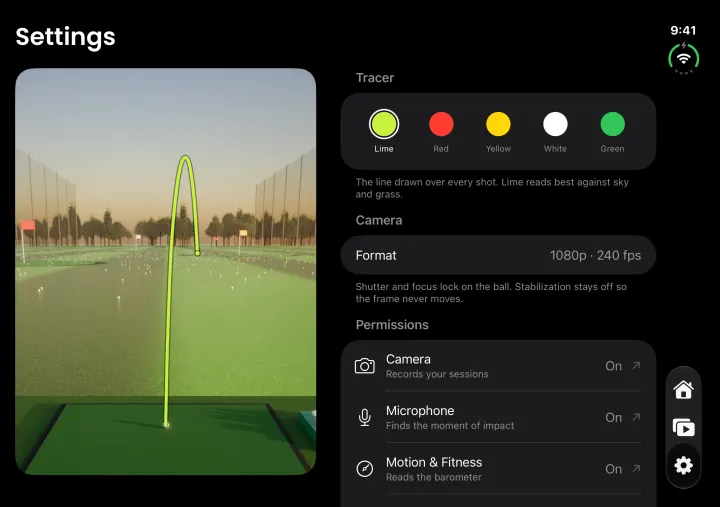
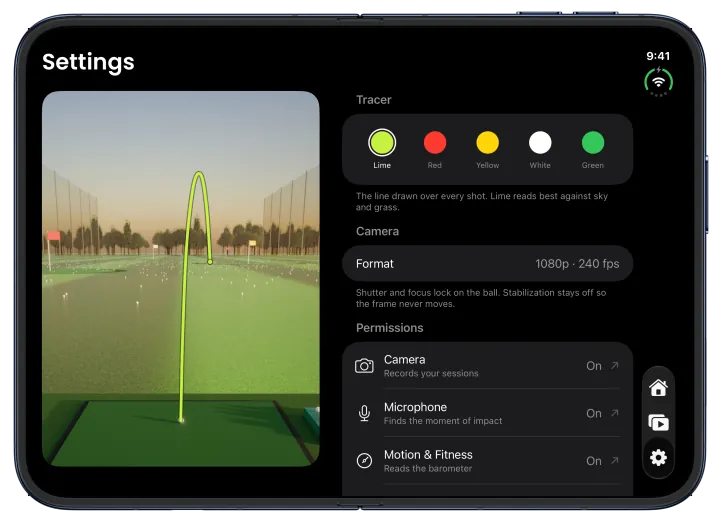
Duo section: scroll-turned 3D iPhone Duo in Apple's bezels, placed after How it works
- Moves the Duo section to right after "How it works"; no other section changes
  (git diff vs main is additions only in public/).
- Lead visual: a 3D iPhone Duo (Apple's Night Sky Inner Open Landscape / Outer
  Open bezels, unaltered, plus a stack of edge layers for thickness) that scroll
  turns from the inside screen (recording) to the outside screen, which loops the
  last swing full screen with its tracer. CSS-sticky stage, one scrubbed
  ScrollTrigger (scrub: 1), transforms only, tilt/drift/scale-in, moving sheen and
  contact shadow. The replay video (44 KB, simulator recording of -coverPreview)
  plays whenever the stage is on screen; pause button. Reduced motion: both sides
  flat, side by side.
- Library and Settings points follow, smaller, also in the Duo bezel.
- Bezel licence note and AGENTS.md updated.

diff --git a/public/index.html b/public/index.html
@@ -278,28 +278,68 @@ footer a:hover { text-decoration: underline; text-underline-offset: 4px; }
 .shot figcaption b { display: block; font-weight: 600; font-size: 1.0625rem; }
 .shot figcaption span { display: block; margin-top: 2px; font-size: 15px; color: var(--white-2); }
 
-/* ---------- iPhone Duo: a compact, secondary section under the gallery. Tagged "Coming soon" until the Duo build ships (AGENTS.md). ---------- */
-.duo { padding-bottom: clamp(var(--space-3xl), 10vw, var(--space-4xl)); }
-.duo-inner { padding-top: var(--space-xl); border-top: 1px solid var(--hairline); }
+/* ---------- iPhone Duo: a compact section right after "How it works". Tagged "Coming soon" until the Duo build ships (AGENTS.md).
+   Apple's iPhone Duo bezels (Apple Design Resources, see assets/device/LICENSE-NOTE.txt), unaltered apart from resizing.
+   Lead visual: a 3D Duo (front/back bezels + a stack of thin edge layers for thickness) that scroll turns from the inside
+   screen (recording) to the outside screen (last swing replaying). Device geometry is the bezels' body box (2975 x 2129 px
+   in both PNGs); the faces' images overhang it by the PNGs' transparent margins. ---------- */
+.duo { padding-block: clamp(var(--space-2xl), 8vw, var(--space-3xl)) clamp(var(--space-3xl), 10vw, var(--space-4xl)); }
 .duo-head { display: grid; grid-template-columns: minmax(0, 4fr) minmax(0, 8fr); gap: var(--space-lg) var(--space-2xl); align-items: start; }
 .duo-head h2 { font-size: 1.75rem; font-weight: 600; line-height: 1.15; letter-spacing: -0.025em; }
 .duo-tag { display: inline-block; margin-top: var(--space-sm); padding: 3px 10px; border: 1px solid var(--hairline); border-radius: var(--r-capsule); font-size: 13px; font-weight: 500; line-height: 1.5; color: var(--white-2); }
 .duo-head p:not(.duo-tag) { max-width: 46ch; color: var(--white-2); }
-.duo-head p + p:not(.duo-tag) { margin-top: var(--space-sm); }
-.duo-points { display: grid; grid-template-columns: repeat(3, minmax(0, 1fr)); gap: var(--space-xl) var(--space-lg); margin-top: var(--space-xl); }
-.duo-points figure { margin: 0; }
-.duo-points img { display: block; width: 100%; height: auto; aspect-ratio: 720 / 507; border-radius: var(--r-media); border: 1px solid var(--hairline); background: var(--night-raised); }
-.duo-points h3 { margin-top: var(--space-md); font-size: 1.0625rem; font-weight: 600; letter-spacing: -0.01em; }
-.duo-points figcaption p { margin-top: 2px; max-width: 40ch; font-size: 15px; color: var(--white-2); }
+.duo figure { margin: 0; }
+.duo img, .duo video { display: block; }
+.duo h3 { font-size: 1.0625rem; font-weight: 600; letter-spacing: -0.01em; }
+.duo figcaption p { margin-top: 2px; max-width: 46ch; font-size: 15px; color: var(--white-2); }
+.duo-stage { display: grid; grid-template-columns: minmax(0, 4fr) minmax(0, 8fr); gap: var(--space-lg) var(--space-2xl); align-items: center; margin-top: var(--space-2xl); }
+.duo-stage figcaption { grid-row: 1; grid-column: 1; }
+.duo-stage .round-btn { margin-top: var(--space-lg); }
+.duo-stage .round-btn[hidden] { display: none; }
+.duo-stage .round-btn [data-icon="play"], .duo-stage .round-btn[aria-pressed="true"] [data-icon="pause"] { display: none; }
+.duo-stage .round-btn[aria-pressed="true"] [data-icon="play"] { display: block; }
+.duo-view { grid-row: 1; grid-column: 2; container-type: inline-size; position: relative; }
+.duo-tilt, .duo-device { transform-style: preserve-3d; }
+.duo-device { position: relative; display: grid; grid-template-columns: repeat(2, minmax(0, 1fr)); gap: var(--space-md); }
+.duo-face { position: relative; aspect-ratio: 2975 / 2129; }
+.duo-art { position: absolute; }
+.duo-face-front .duo-art { left: -1.983%; top: -2.771%; width: 103.966%; height: 105.542%; }
+.duo-face-back .duo-art { left: -1.345%; top: -1.502%; width: 102.723%; height: 103.005%; }
+.duo-art img { width: 100%; height: 100%; }
+.duo-art video { position: absolute; left: 51.374%; top: 3.646%; width: 45.746%; height: 92.707%; object-fit: cover; background: #000; }
+.duo-art video + img { position: absolute; inset: 0; }
+.duo-edge, .duo-sheen, .duo-shadow { display: none; }
+/* Scroll-driven 3D (added by JS when motion is allowed): a sticky stage inside a tall runway. */
+.duo.is-scrub .duo-runway { height: 260vh; }
+.duo.is-scrub .duo-stage { position: sticky; top: 0; height: 100vh; margin-top: 0; }
+.duo.is-scrub .duo-view { perspective: 1400px; }
+.duo.is-scrub .duo-tilt { will-change: transform; }
+.duo.is-scrub .duo-device { display: block; aspect-ratio: 2975 / 2129; will-change: transform; }
+.duo.is-scrub .duo-face { position: absolute; inset: 0; backface-visibility: hidden; -webkit-backface-visibility: hidden; }
+.duo.is-scrub .duo-face-front { transform: translateZ(1.7cqw); }
+.duo.is-scrub .duo-face-back { transform: rotateY(180deg) translateZ(1.7cqw); }
+.duo.is-scrub .duo-edge { display: block; position: absolute; inset: 0.15%; border-radius: 8.4% / 11.7%; background: var(--edge, #3b475c); transform: translateZ(calc(var(--z) * 1cqw)); }
+.duo.is-scrub .duo-sheen { display: block; position: absolute; inset: 0; pointer-events: none; mix-blend-mode: screen;
+  background: linear-gradient(105deg, transparent 38%, oklch(100% 0 0 / 0.16) 50%, transparent 62%) no-repeat;
+  background-size: 260% 100%; background-position: calc(115% - var(--p, 0) * 130%) 0;
+  -webkit-mask: var(--mask) center / 100% 100% no-repeat; mask: var(--mask) center / 100% 100% no-repeat; }
+.duo.is-scrub .duo-shadow { display: block; position: absolute; left: 12%; right: 12%; bottom: -9%; height: 10%; border-radius: 50%;
+  background: radial-gradient(closest-side, oklch(0% 0 0 / 0.55), transparent); filter: blur(6px); will-change: transform, opacity; }
+.duo-points { display: grid; grid-template-columns: repeat(2, minmax(0, 1fr)); gap: var(--space-lg) var(--space-2xl); margin-top: var(--space-2xl); }
+.duo-points figure { display: grid; grid-template-columns: minmax(0, 1fr) minmax(0, 1fr); gap: var(--space-md); align-items: center; }
+.duo-points img { width: 100%; height: auto; }
 @media (max-width: 900px) {
-  .duo-head { grid-template-columns: minmax(0, 1fr); }
-  .duo-points { grid-template-columns: minmax(0, 1fr); }
-  .duo-points figure { display: grid; grid-template-columns: minmax(0, 1fr) minmax(0, 1fr); gap: var(--space-lg); align-items: center; }
-  .duo-points h3 { margin-top: 0; }
+  .duo-head, .duo-stage, .duo-points { grid-template-columns: minmax(0, 1fr); }
+  .duo-view, .duo-stage figcaption { grid-column: 1; }
+  .duo-stage figcaption { grid-row: 2; }
+  .duo.is-scrub .duo-stage { align-content: center; gap: var(--space-xl); height: 100svh; }
+  .duo.is-scrub .duo-runway { height: 240svh; }
 }
 @media (max-width: 560px) {
+  .duo-device { grid-template-columns: minmax(0, 1fr); }
+  .duo.is-scrub .duo-tilt { margin-inline: 7%; }
   .duo-points figure { display: block; }
-  .duo-points h3 { margin-top: var(--space-md); }
+  .duo-points figcaption { margin-top: var(--space-sm); }
 }
 
 /* ---------- FAQ ---------- */
@@ -588,6 +628,51 @@ html.lenis, html.lenis body { height: auto; }
   </section>
 
 
+  <!-- IPHONE DUO: compact, after "How it works". Rule 1: the Duo-optimized layout (unfolded, every screen in two halves) and the
+       outside-screen replay are NOT in the App Store build yet, so the section carries a "Coming soon" tag. Remove the tag only once
+       the Duo build ships. Footage is the app itself: the inside screen is a simulator capture of Record unfolded (the debug
+       recording state holds its clock at 0:45), the outside-screen loop is a simulator recording of the replay view
+       (-coverPreview). Bezels: Apple's, unaltered, resize only. Scroll turns the phone (JS adds .is-scrub); without motion both
+       sides show side by side. -->
+  <section class="duo" id="duo" aria-labelledby="duo-title" data-duo>
+    <div class="wrap">
+      <div class="duo-head">
+        <div>
+          <h2 id="duo-title">Optimized for iPhone Duo.</h2>
+          <p class="duo-tag">Coming soon</p>
+        </div>
+        <p>Unfold it and Contrail splits in two: your shot on one side, the rest of your session on the other. Folded, it’s the app you know.</p>
+      </div>
+      <div class="duo-runway" data-duo-runway>
+        <figure class="duo-stage">
+          <div class="duo-view" data-duo-view>
+            <div class="duo-tilt" data-duo-tilt>
+              <div class="duo-device" data-duo-device>
+                <span class="duo-edge" style="--z:-1.639;--edge:oklch(28% 0.03 262)"></span><span class="duo-edge" style="--z:-1.518;--edge:oklch(29% 0.03 262)"></span><span class="duo-edge" style="--z:-1.396;--edge:oklch(30% 0.03 262)"></span><span class="duo-edge" style="--z:-1.275;--edge:oklch(31% 0.03 262)"></span><span class="duo-edge" style="--z:-1.154;--edge:oklch(32% 0.03 262)"></span><span class="duo-edge" style="--z:-1.032;--edge:oklch(33% 0.03 262)"></span><span class="duo-edge" style="--z:-0.911;--edge:oklch(34% 0.03 262)"></span><span class="duo-edge" style="--z:-0.789;--edge:oklch(34% 0.03 262)"></span><span class="duo-edge" style="--z:-0.668;--edge:oklch(35% 0.03 262)"></span><span class="duo-edge" style="--z:-0.546;--edge:oklch(36% 0.03 262)"></span><span class="duo-edge" style="--z:-0.425;--edge:oklch(37% 0.03 262)"></span><span class="duo-edge" style="--z:-0.304;--edge:oklch(38% 0.03 262)"></span><span class="duo-edge" style="--z:-0.182;--edge:oklch(39% 0.03 262)"></span><span class="duo-edge" style="--z:-0.061;--edge:oklch(40% 0.03 262)"></span><span class="duo-edge" style="--z:0.061;--edge:oklch(40% 0.03 262)"></span><span class="duo-edge" style="--z:0.182;--edge:oklch(39% 0.03 262)"></span><span class="duo-edge" style="--z:0.304;--edge:oklch(38% 0.03 262)"></span><span class="duo-edge" style="--z:0.425;--edge:oklch(37% 0.03 262)"></span><span class="duo-edge" style="--z:0.546;--edge:oklch(36% 0.03 262)"></span><span class="duo-edge" style="--z:0.668;--edge:oklch(35% 0.03 262)"></span><span class="duo-edge" style="--z:0.789;--edge:oklch(34% 0.03 262)"></span><span class="duo-edge" style="--z:0.911;--edge:oklch(34% 0.03 262)"></span><span class="duo-edge" style="--z:1.032;--edge:oklch(33% 0.03 262)"></span><span class="duo-edge" style="--z:1.154;--edge:oklch(32% 0.03 262)"></span><span class="duo-edge" style="--z:1.275;--edge:oklch(31% 0.03 262)"></span><span class="duo-edge" style="--z:1.396;--edge:oklch(30% 0.03 262)"></span><span class="duo-edge" style="--z:1.518;--edge:oklch(29% 0.03 262)"></span><span class="duo-edge" style="--z:1.639;--edge:oklch(28% 0.03 262)"></span>
+                <div class="duo-face duo-face-front"><div class="duo-art"><img src="/assets/screens/duo/04-record-recording-720.webp" srcset="/assets/screens/duo/04-record-recording-720.webp 720w, /assets/screens/duo/04-record-recording-1080.webp 1080w" sizes="(max-width: 900px) calc(100vw - 32px), 760px" width="720" height="524" loading="lazy" decoding="async" alt="iPhone Duo unfolded, inside screen: Contrail recording, with the camera view on one half and the last shot replaying on the other."><span class="duo-sheen" style="--mask:url('/assets/screens/duo/04-record-recording-720.webp')"></span></div></div>
+                <div class="duo-face duo-face-back"><div class="duo-art">
+                  <video muted loop playsinline preload="none" width="540" height="786" poster="/assets/screens/duo/replay-outer-poster.webp" aria-label="The outside screen of iPhone Duo, facing the golfer, replaying the last swing full screen with its lime tracer." data-duo-video><source data-src="/assets/screens/duo/replay-outer.mp4" type="video/mp4"></video>
+                  <img src="/assets/device/iphone-duo-night-sky-outer-open-720.webp" srcset="/assets/device/iphone-duo-night-sky-outer-open-720.webp 720w, /assets/device/iphone-duo-night-sky-outer-open-1080.webp 1080w" sizes="(max-width: 900px) calc(100vw - 32px), 760px" width="720" height="517" loading="lazy" decoding="async" alt="">
+                  <span class="duo-sheen" style="--mask:url('/assets/device/iphone-duo-night-sky-outer-open-720.webp')"></span>
+                </div></div>
+              </div>
+            </div>
+            <div class="duo-shadow" aria-hidden="true" data-duo-shadow></div>
+          </div>
+          <figcaption>
+            <h3>See your last shot while you hit the next</h3>
+            <p>While you hit, the camera fills the inside screen and the outside screen faces you with your last swing, tracer and all.</p>
+            <button class="round-btn solid" type="button" aria-label="Pause video" aria-pressed="false" hidden data-duo-pause><svg data-icon="pause" viewBox="0 0 256 256" fill="currentColor" aria-hidden="true" focusable="false"><path d="M200,32H160a16,16,0,0,0-16,16V208a16,16,0,0,0,16,16h40a16,16,0,0,0,16-16V48A16,16,0,0,0,200,32ZM96,32H56A16,16,0,0,0,40,48V208a16,16,0,0,0,16,16H96a16,16,0,0,0,16-16V48A16,16,0,0,0,96,32Z"/></svg><svg data-icon="play" viewBox="0 0 256 256" fill="currentColor" aria-hidden="true" focusable="false"><path d="M240,128a15.74,15.74,0,0,1-7.6,13.51L88.32,229.65a16,16,0,0,1-16.2.3A15.86,15.86,0,0,1,64,216.13V39.87a15.86,15.86,0,0,1,8.12-13.82,16,16,0,0,1,16.2.3L232.4,114.49A15.74,15.74,0,0,1,240,128Z"/></svg></button>
+          </figcaption>
+        </figure>
+      </div>
+      <div class="duo-points">
+        <figure><img src="/assets/screens/duo/05-library-720.webp" srcset="/assets/screens/duo/05-library-720.webp 720w, /assets/screens/duo/05-library-1080.webp 1080w" sizes="(max-width: 560px) calc(100vw - 32px), (max-width: 900px) 45vw, 270px" width="720" height="524" loading="lazy" decoding="async" alt="iPhone Duo unfolded: the Contrail library, with a shot playing on one half and a grid of the day’s shots on the other."><figcaption><h3>Watch and pick at once</h3><p>Your shot plays big on one half, all your shots on the other. Tap one and it plays, even in full screen.</p></figcaption></figure>
+        <figure><img src="/assets/screens/duo/07-settings-720.webp" srcset="/assets/screens/duo/07-settings-720.webp 720w, /assets/screens/duo/07-settings-1080.webp 1080w" sizes="(max-width: 560px) calc(100vw - 32px), (max-width: 900px) 45vw, 270px" width="720" height="524" loading="lazy" decoding="async" alt="iPhone Duo unfolded: Contrail settings, with a tracer preview on one half and tracer colors, camera format and permissions on the other."><figcaption><h3>Everything in reach</h3><p>Home, Settings and every other screen split in two. Nothing stretched, nothing on the fold.</p></figcaption></figure>
+      </div>
+    </div>
+  </section>
+
   <!-- EXAMPLES: three real swings with the tracer drawn in -->
   <section class="section examples" id="examples" aria-labelledby="examples-title">
     <div class="wrap">
@@ -696,29 +781,6 @@ html.lenis, html.lenis body { height: auto; }
       <figure class="shot"><div class="phone frame"><div class="phone-screen"><img src="/assets/screens/06-comet-tutorial-720.webp" srcset="/assets/screens/06-comet-tutorial-720.webp 720w, /assets/screens/06-comet-tutorial-1080.webp 1080w" sizes="(max-width: 760px) 65vw, 305px" width="720" height="1566" loading="lazy" alt="Contrail first-run tutorial: Comet says tap record and hit a few balls, I find the ball on your first swing, short sessions work best, above a small record screen with the ball locked."></div><img class="phone-bezel" src="/assets/device/iphone-18-pro-black-1104.webp" srcset="/assets/device/iphone-18-pro-black-552.webp 270w, /assets/device/iphone-18-pro-black-1104.webp 540w" sizes="(max-width: 760px) 72vw, 340px" width="540" height="1104" alt="" loading="lazy" decoding="async"></div><figcaption><b>First run</b><span>Comet walks you through setup the first time you open the app.</span></figcaption></figure>
       <figure class="shot"><div class="phone frame"><div class="phone-screen"><img src="/assets/screens/07-settings-720.webp" srcset="/assets/screens/07-settings-720.webp 720w, /assets/screens/07-settings-1080.webp 1080w" sizes="(max-width: 760px) 65vw, 305px" width="720" height="1566" loading="lazy" alt="Contrail settings: a tracer preview with color choices lime, red, yellow, white and green, the camera format 1080p at 240 fps and the list of permissions."></div><img class="phone-bezel" src="/assets/device/iphone-18-pro-black-1104.webp" srcset="/assets/device/iphone-18-pro-black-552.webp 270w, /assets/device/iphone-18-pro-black-1104.webp 540w" sizes="(max-width: 760px) 72vw, 340px" width="540" height="1104" alt="" loading="lazy" decoding="async"></div><figcaption><b>Your line, your color</b><span>Lime by default, or red, yellow, white or green. Permissions live here too.</span></figcaption></figure>
     </div>
-  </section>
-
-  <!-- IPHONE DUO: compact and secondary to the iPhone content. Rule 1: the Duo-optimized (unfolded, two-half) layout and the
-       outside-display replay are NOT in the App Store build yet, so the section carries a "Coming soon" tag and the replay line
-       says "coming". Remove the tag and the "coming" wording only once the Duo build ships. -->
-  <section class="duo" id="duo" aria-labelledby="duo-title">
-    <div class="wrap"><div class="duo-inner">
-      <div class="duo-head">
-        <div>
-          <h2 id="duo-title">Optimized for iPhone Duo.</h2>
-          <p class="duo-tag">Coming soon</p>
-        </div>
-        <div>
-          <p>Unfold it and Contrail splits in two: your shot on one side, the rest of your session on the other. Folded, it’s the app you know.</p>
-          <p>Also coming: after each shot, the outside display can replay it, so you can glance at it without picking up your phone.</p>
-        </div>
-      </div>
-      <div class="duo-points">
-        <figure><img src="/assets/screens/duo/05-library-720.webp" srcset="/assets/screens/duo/05-library-720.webp 720w, /assets/screens/duo/05-library-1080.webp 1080w" sizes="(max-width: 560px) calc(100vw - 32px), (max-width: 900px) 45vw, 380px" width="720" height="507" loading="lazy" decoding="async" alt="Contrail unfolded on iPhone Duo, library: a shot with its lime tracer playing on one half, and a grid of the day’s shots on the other."><figcaption><h3>Watch and pick at once</h3><p>Your shot plays big on one half, all your shots on the other. Tap one and it plays, even in full screen.</p></figcaption></figure>
-        <figure><img src="/assets/screens/duo/04-record-recording-720.webp" srcset="/assets/screens/duo/04-record-recording-720.webp 720w, /assets/screens/duo/04-record-recording-1080.webp 1080w" sizes="(max-width: 560px) calc(100vw - 32px), (max-width: 900px) 45vw, 380px" width="720" height="507" loading="lazy" decoding="async" alt="Contrail unfolded on iPhone Duo, recording: the camera view on one half, and the last shot replaying with its tracer above a stop button on the other."><figcaption><h3>Film and replay side by side</h3><p>The camera on one half, your last shot replaying on the other, while the recording keeps going.</p></figcaption></figure>
-        <figure><img src="/assets/screens/duo/07-settings-720.webp" srcset="/assets/screens/duo/07-settings-720.webp 720w, /assets/screens/duo/07-settings-1080.webp 1080w" sizes="(max-width: 560px) calc(100vw - 32px), (max-width: 900px) 45vw, 380px" width="720" height="507" loading="lazy" decoding="async" alt="Contrail unfolded on iPhone Duo, settings: a tracer preview on one half, and tracer colors, camera format and permissions on the other."><figcaption><h3>Everything in reach</h3><p>Home, Settings and every other screen split in two. Nothing stretched, nothing on the fold.</p></figcaption></figure>
-      </div>
-    </div></div>
   </section>
 
   <!-- PRIVACY: one honest number -->
@@ -1363,6 +1425,59 @@ html.lenis, html.lenis body { height: auto; }
       });
     }, { rootMargin: '-50% 0px -50% 0px' });
     document.querySelectorAll('[data-step]').forEach(function (el) { io.observe(el); });
+  })();
+</script>
+
+<script>
+  // iPhone Duo (#duo): scroll turns the phone from the inside screen (recording) to the outside screen (last swing replaying).
+  // CSS-sticky stage in a tall runway (no JS pin, like the hero on phones), scrubbed by ScrollTrigger; transforms only.
+  // The replay video plays whenever the stage is on screen; scroll drives only the pose. Reduced motion (or no GSAP): both
+  // sides side by side, nothing turns, the video waits for the play button.
+  (function () {
+    var sec = document.querySelector('[data-duo]'); if (!sec) return;
+    var video = sec.querySelector('[data-duo-video]'), btn = sec.querySelector('[data-duo-pause]');
+    var reduce = window.matchMedia('(prefers-reduced-motion: reduce)');
+    var paused = reduce.matches, inView = false, loaded = false;
+    function load() {
+      if (loaded) return; loaded = true;
+      var src = video.querySelector('source[data-src]'); src.src = src.getAttribute('data-src'); video.load();
+    }
+    function sync() { if (inView && !paused) { load(); video.play().catch(function () {}); } else video.pause(); }
+    function setBtn() { btn.setAttribute('aria-pressed', String(paused)); btn.setAttribute('aria-label', paused ? 'Play video' : 'Pause video'); }
+    btn.hidden = false; setBtn();
+    btn.addEventListener('click', function () { paused = !paused; setBtn(); if (!paused) load(); sync(); });
+    if ('IntersectionObserver' in window) {
+      new IntersectionObserver(function (e) { inView = e[0].isIntersecting; sync(); }, { rootMargin: '10% 0px' }).observe(sec.querySelector('[data-duo-view]'));
+    }
+
+    document.addEventListener('DOMContentLoaded', function () { // after the page's own ScrollTriggers (registered earlier)
+      if (!window.gsap || !window.ScrollTrigger) return;
+      var tilt = sec.querySelector('[data-duo-tilt]'), device = sec.querySelector('[data-duo-device]');
+      var shadow = sec.querySelector('[data-duo-shadow]'), runway = sec.querySelector('[data-duo-runway]');
+      gsap.matchMedia().add('(prefers-reduced-motion: no-preference)', function () {
+        sec.classList.add('is-scrub');
+        gsap.set(tilt, { xPercent: -5, scale: 0.86, rotationX: 14, rotationZ: -2 });
+        gsap.set(device, { rotationY: 0 });
+        var tl = gsap.timeline({
+          defaults: { ease: 'none' },
+          scrollTrigger: { trigger: runway, start: 'top top', end: 'bottom bottom', scrub: 1 },
+          onUpdate: function () {
+            var p = tl.progress(), ry = gsap.getProperty(device, 'rotationY') * Math.PI / 180;
+            device.style.setProperty('--p', p.toFixed(4));
+            gsap.set(shadow, { scaleX: 0.5 + 0.5 * Math.abs(Math.cos(ry)), opacity: 0.55 + 0.45 * Math.abs(Math.cos(ry)) });
+          }
+        });
+        tl.to(tilt, { scale: 1, rotationX: 9, duration: 0.15, ease: 'power2.out' }, 0)
+          .to(device, { rotationY: 180, duration: 0.7, ease: 'power2.inOut' }, 0.15)
+          .to(tilt, { xPercent: 5, rotationZ: 2, duration: 0.7, ease: 'sine.inOut' }, 0.15)
+          .to(tilt, { rotationX: 5, duration: 0.35, ease: 'sine.inOut' }, 0.15)
+          .to(tilt, { rotationX: 9, duration: 0.35, ease: 'sine.inOut' }, 0.5)
+          .to({}, { duration: 0.15 }, 0.85);
+        ScrollTrigger.sort();
+        ScrollTrigger.refresh();
+        return function () { sec.classList.remove('is-scrub'); gsap.set([tilt, device, shadow], { clearProps: 'all' }); ScrollTrigger.refresh(); };
+      });
+    });
   })();
 </script>
 

diff --git a/AGENTS.md b/AGENTS.md
@@ -32,11 +32,14 @@ public/            everything here is served as-is
     img/           photos as responsive WebP + ATTRIBUTION.csv (source, photographer, licence for each)
     screens/       app screenshots as WebP at 720w + 1080w (srcset), from 1206x2622 simulator captures with a
                    clean 9:41 status bar and no painted Dynamic Island (the bezel draws the real one)
-      duo/         unfolded iPhone Duo screens for the home page's #duo section, WebP at 720w + 1080w (srcset), from
-                   2853x2007 captures. Shown as plain rounded screens (no device frame: there's no official Duo bezel).
+      duo/         the home page's #duo section: unfolded iPhone Duo screens (2853x2007 simulator captures) pre-composited
+                   into Apple's "iPhone Duo - Night Sky - Inner Open Landscape" bezel, WebP at 720w + 1080w; plus
+                   replay-outer.mp4 (+ poster), a 4.4 s loop of the outside-screen replay recorded from the Duo simulator
+                   (-coverPreview, outer display, 1398x2034 = the bezel's screen opening), played under the outer bezel.
     device/        Apple's iPhone 18 Pro black bezel (Apple Design Resources) at 2x/1x + LICENSE-NOTE.txt.
                    Every phone on the site uses it (.phone / .phone-screen / .phone-bezel in index.html).
-                   Use it unaltered (resize only) and never imply Apple endorsement.
+                   Also Apple's "iPhone Duo - Night Sky - Outer Open" bezel (WebP 720w/1080w) for the #duo 3D phone.
+                   Use bezels unaltered (resize only) and never imply Apple endorsement.
     comet/         Comet keyframe files replayed on the home page
     demo/          the interactive app demo on the home page (#demo): demo.css + demo.js build a working mock of the
                    app inside the bezel (Home, Record, Finding your shots, Library, shot viewer, Settings, Comet's intro).
@@ -68,9 +71,10 @@ apps whose support or privacy links break.
    built yet** (the exporter is a future PR; today "Save to Photos" is UI-only and Share sends the whole session
    video). Don't mention any of these until they ship.
    **iPhone Duo (#duo on the home page):** the Duo-optimized layout (unfolded, every screen in two halves) and the
-   outside-display replay are not in the App Store build yet, so the section carries a "Coming soon" tag and says
-   "Also coming" for the replay. Don't say the app "runs on" iPhone Duo as a feature (every iPhone app does). Once the
-   Duo build ships, remove the tag and the "coming" wording.
+   outside-screen replay are not in the App Store build yet, so the section carries a "Coming soon" tag. Don't say the
+   app "runs on" iPhone Duo as a feature (every iPhone app does). Once the Duo build ships, remove the tag. The section
+   sits after "How it works"; scroll turns the 3D phone (CSS-sticky stage + one scrubbed ScrollTrigger in its own
+   script at the end of index.html, no JS pin), and reduced motion shows both sides flat.
 2. **The privacy policy must match the app exactly.**
    - No account, no server, no analytics, no ads, no tracking. Everything stays on the iPhone.
    - Permissions: Camera, Microphone, Motion & Fitness, Location (while using), Photos (add only).
